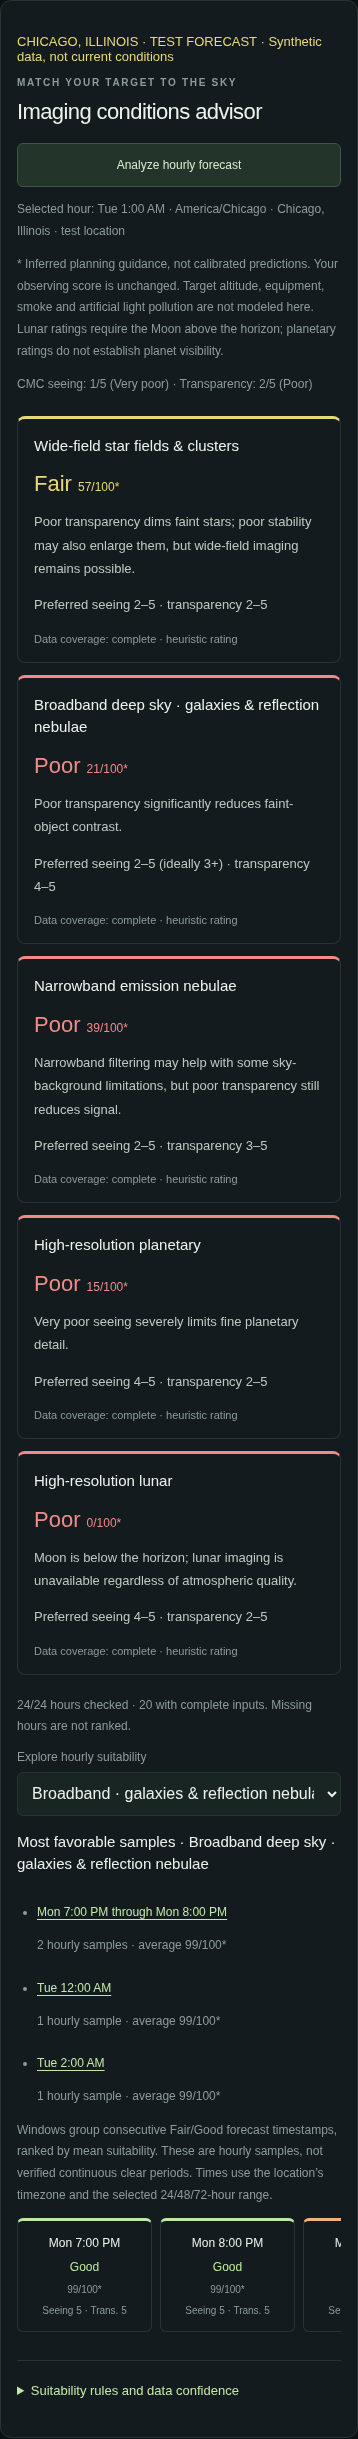
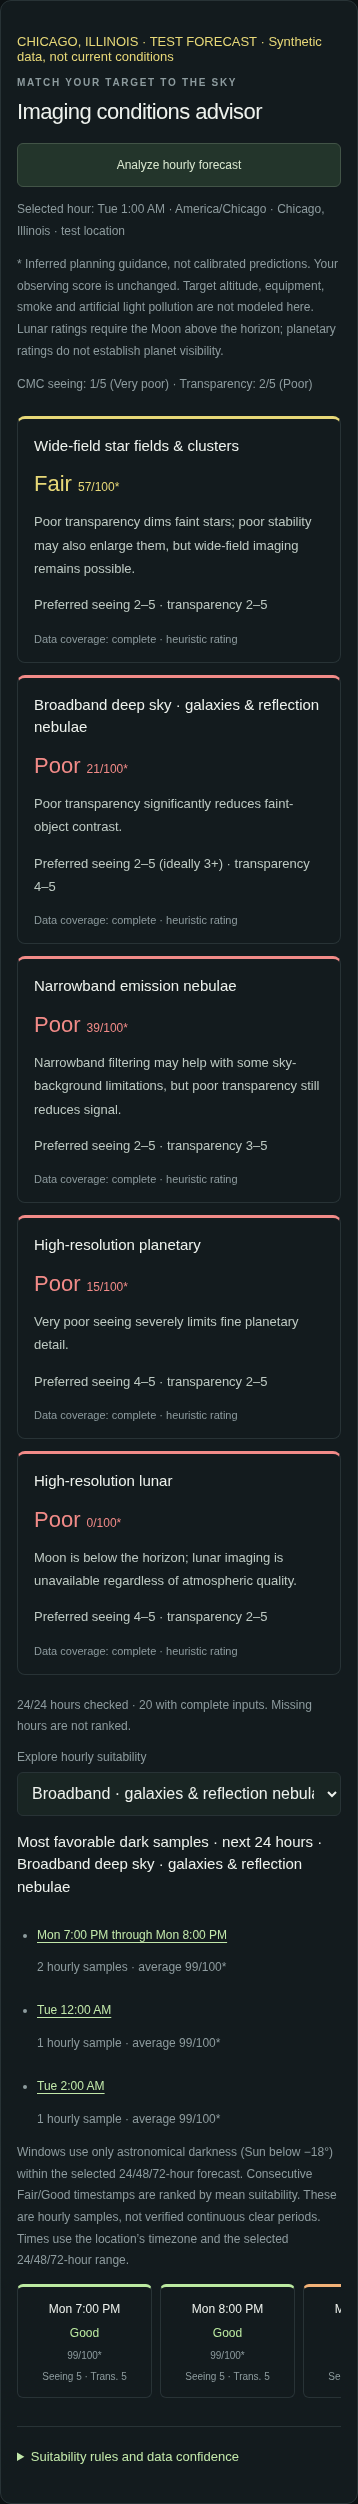
Restrict favorable imaging windows to dark hours in selected forecast range

diff --git a/dist/index.html b/dist/index.html
@@ -7,7 +7,7 @@
 <p id="imaging-progress" class="imaging-note" role="status">Hourly CMC analysis loads on request using the existing forecast provider.</p>
 <label class="imaging-category" for="imaging-category">Explore hourly suitability<select id="imaging-category"><option value="wide">Wide-field star fields &amp; clusters</option><option value="broadband">Broadband · galaxies &amp; reflection nebulae</option><option value="narrowband">Narrowband emission nebulae</option><option value="planetary">High-resolution planetary</option><option value="lunar">Lunar imaging</option></select></label>
 <h3 id="imaging-window-title">Most favorable hourly samples</h3><ul id="imaging-windows" class="imaging-windows"></ul>
-<p class="imaging-note">Windows group consecutive Fair/Good forecast timestamps, ranked by mean suitability. These are hourly samples, not verified continuous clear periods. Times use the location’s timezone and the selected 24/48/72-hour range.</p>
+<p class="imaging-note">Windows use only astronomical darkness (Sun below −18°) within the selected 24/48/72-hour forecast. Consecutive Fair/Good timestamps are ranked by mean suitability. These are hourly samples, not verified continuous clear periods. Times use the location’s timezone and the selected 24/48/72-hour range.</p>
 <div class="hour-scroll" tabindex="0" role="region" aria-label="Hourly imaging suitability, scroll horizontally"><div id="imaging-hours" class="imaging-hours"></div></div>
 <details class="imaging-method"><summary>Suitability rules and data confidence</summary><p>CMC indices: 0 = cloudy, 1 = very poor, 2 = poor, 3 = average/medium, 4 = good, 5 = excellent. Higher is better. Zero is not missing. Preferred ranges are soft preferences, not cutoffs. Every rating requires valid seeing, transparency, cloud cover, wind, humidity, air temperature, dew point, Sun altitude, Moon altitude and illumination. Missing or invalid inputs give null / Insufficient data; complete coverage does not imply forecast certainty.</p><p>Separate category-specific seeing and transparency curves form atmospheric suitability. Seeing/transparency weights: wide-field 25/75%, broadband and narrowband 20/80%, planetary and lunar 85/15%. Cloud, wind, dew-risk, twilight and moonlight modifiers can only reduce that result; there is no favorable baseline for poor indices. Seeing has the greatest influence on planetary and lunar detail; transparency has a stronger influence on broadband. Narrowband is more tolerant of moonlight, but not clouds or haze. Poor &lt;40, Marginal 40–54, Fair 55–69, Good ≥70. These are uncalibrated planning choices.</p><p><a href="https://github.com/flyby40/nightwatch/blob/63cc3840685d23dedfdff19a7da4e9501ca7ea7b/docs/imaging-advisor.md" target="_blank" rel="noopener">Full weighting tables, penalties and limitations ↗</a></p></details>
 </section><section class="panel cloud-map-panel" id="cloud-map-panel"><div class="section-heading"><div><div class="eyebrow">A LOOK ABOVE YOUR LOCATION</div><h2>Sky &amp; weather maps</h2></div><div class="map-actions"><button id="map-center" type="button">⌖ Recenter</button><button id="map-aurora-overview" type="button" hidden>Aurora overview</button><button id="map-refresh" type="button">↻ Refresh layer</button></div></div><p id="map-location" class="map-location">Map follows the selected forecast location.</p><div class="map-controls"><label>Map layer<select id="map-layer"><option value="satellite">Satellite · observed infrared</option><option value="forecast">CMC · forecast cloud cover</option><option value="wind">CMC · wind speed (mph)</option><option value="temperature">CMC · temperature (°F)</option><option value="precipitation">CMC · 1-hour precipitation (in)</option><option value="aurora">NOAA · short-term aurora forecast</option><option value="none">Location map only</option></select></label><label class="opacity-label">Overlay opacity <span id="map-opacity-value">65%</span><input type="range" id="map-opacity" min="15" max="100" step="5" value="65" aria-label="Cloud overlay opacity"></label></div><div class="cloud-map-wrap"><div id="cloud-map" role="region" aria-label="Interactive map of the selected location and cloud imagery"></div><div id="map-legend" hidden><span id="map-legend-title">CMC cloud cover (%)</span><div id="map-unit-legend" class="map-unit-legend" hidden><canvas id="map-unit-colorbar" width="24" height="220" role="img" aria-label="Provider map color gradient"></canvas><div id="map-unit-ticks"></div></div><img id="map-legend-image" alt="CMC total cloud cover percentage legend" loading="lazy"></div></div><div id="aurora-legend" class="aurora-legend" hidden><span>NOAA aurora model value · 0–100</span><div><i></i><span>Low</span><i></i><span>25</span><i></i><span>50</span><i></i><span>75–100</span></div><a href="https://www.swpc.noaa.gov/products/aurora-30-minute-forecast" target="_blank" rel="noopener">NOAA polar maps &amp; guidance ↗</a></div><div class="map-time" id="map-time">Waiting for the forecast location…</div><div id="satellite-controls" class="satellite-controls"><button type="button" id="map-play" aria-pressed="false" disabled>▶ Animate recent images</button><label>Recent frames<input type="range" id="map-frame" min="0" max="5" value="5" step="1" aria-label="Recent satellite image frame" disabled></label></div><p id="map-status" class="map-status" role="status">The map loads when it comes into view. Satellite imagery has a processing delay; forecast clouds follow the selected chart hour.</p><p id="map-basemap-status" class="map-status" role="status"></p><p class="map-help">Select a chart hour above to change CMC cloud, wind, temperature, or 1-hour precipitation forecasts. Wind and temperature map legends and the distance scale follow the unit selector. Satellite imagery and NOAA’s short-term aurora forecast show their own timestamps independently of the chart hour. Aurora visibility also needs darkness and favorable cloud conditions; the model value is not your personal chance of seeing it. Use the + / − controls or pinch to zoom. The forecast stays pinned to the marker when you browse the map.</p></section><section class="panel light-panel"><div class="section-heading"><div><div class="eyebrow">YOUR OBSERVING LOCATION</div><h2>Light pollution &amp; sky darkness</h2></div><a id="pollution-map" target="_blank" rel="noopener">View this location on the light-pollution map ↗</a></div><p id="pollution-location"></p><div class="sky-readings"><div><span>BORTLE CLASS</span><strong id="bortle">null</strong><small id="bortle-source">No local value supplied</small></div><div><span>SKY BRIGHTNESS · mag/arcsec²</span><strong id="sqm">null</strong><small id="sqm-source">No local value supplied</small></div></div><div class="bortle-scale" aria-label="Bortle classes: 1 is darkest, 9 is brightest"><span data-bortle="1">1</span><span data-bortle="2">2</span><span data-bortle="3">3</span><span data-bortle="4">4</span><span data-bortle="5">5</span><span data-bortle="6">6</span><span data-bortle="7">7</span><span data-bortle="8">8</span><span data-bortle="9">9</span></div><div class="scale-caption"><span>Darker sky</span><span>Brighter sky</span></div><p class="light-note">Automatic values, when connected, come from <a href="https://darkskysites.com" target="_blank" rel="noopener">DarkSkySites.com</a>: modeled zenith sky brightness and a provider-derived Bortle class, not live measurements. Unavailable or unscreened values remain null. Known local readings override the corresponding provider value; this app does not convert between Bortle and SQM.</p><p id="pollution-status" role="status">Checking automatic lookup…</p><details><summary>Add known readings for this location</summary><form id="sky-readings-form"><label>Bortle class (1–9)<input id="bortle-input" type="number" min="1" max="9" step="1" placeholder="Unknown"></label><label>Sky brightness (mag/arcsec²)<input id="sqm-input" type="number" min="0" max="30" step="0.01" placeholder="Unknown"></label><button type="submit">Save local readings</button><button type="button" id="clear-readings">Clear</button></form><small>Optional user-supplied readings, saved in this browser for these coordinates. Leave unknown fields blank. Enter measured SQM or a source’s modeled brightness as supplied; no value is calculated from the other.</small><p id="readings-status" role="status"></p></details></section><section class="panel dew-panel"><div class="eyebrow">EQUIPMENT CHECK · SELECTED HOUR</div><h2 id="dew-title">Dew-heater recommendation: null</h2><p id="dew-advice">Waiting for humidity and dew-point data.</p><small>Guidance uses forecast air temperature, dew point, and humidity. Optics can cool below air temperature; inspect your equipment during the session.</small></section><section class="panel highlights"><div class="eyebrow">WHAT TO LOOK FOR</div><h2>Plan your dark-hour observing</h2><p id="highlight-context">Choose a dark hour in the forecast, then use these astronomy guides to find observing highlights.</p><a id="sky-link" target="_blank" rel="noopener">Interactive sky chart for this location ↗</a><a href="https://skyandtelescope.org/observing/sky-at-a-glance/" target="_blank" rel="noopener">This week’s sky at a glance ↗</a><a href="https://www.imo.net/calendar/" target="_blank" rel="noopener">Meteor shower calendars ↗</a><small>External guides; event visibility is not supplied by this forecast. Confirm dates, local horizon, and darkness in the linked guide.</small></section><section class="bottom-grid"><article class="panel events"><div class="eyebrow">FOLLOW THE LIGHT</div><h2><span id="milestone-title">Astronomy milestones · 24 hours</span></h2><div id="events"></div></article><article class="panel field"><span class="field-icon">✺</span><div class="eyebrow">A NOTE FROM THE FIELD</div><h2>Give your eyes<br>a little time.</h2><p>Spend 20–30 minutes away from bright light. You’ll start to see a sky you didn’t know was there.</p><button id="method">How is the forecast calculated? ↗</button></article></section><footer><span class="brand">✳ nightwatch.</span><p>Made for the moments between sunset and sunrise.</p><span>Weather: <a href="https://open-meteo.com/" target="_blank" rel="noopener">Open-Meteo</a> · Astronomy: SunCalc · <a href="https://weather.gc.ca/astro/index_e.html" target="_blank" rel="noopener">Seeing/transparency: ECCC/CMC</a></span></footer></main><dialog id="info"><button id="close" aria-label="Close">×</button><h2>Forecast data and missing values</h2><p>Weather forecasts come from Open-Meteo: cloud cover, relative humidity, temperature, dew point, wind speed, and precipitation probability. Forecasts are model outputs, not measurements at your telescope.</p><p>Seeing and transparency are provider-issued CMC/ECCC RDPS indices from MSC GeoMet, loaded for the selected location and exact UTC forecast hour. They are not arcseconds or measurements at your telescope. The model grid is about 10 km and covers North America. Provider condition labels, valid time, and model run are displayed. No temporal interpolation, extrapolation, or derived conversion is used. Missing or invalid values remain null. The viewing score is inferred by Nightwatch, not supplied by CMC or Open-Meteo. For each hour, cloud component = 100 − cloud%; humidity component = 100 − max(0, RH% − 40) × 1.4; wind component = max(0, 100 − 3 × wind in km/h); moon component = 100 − illuminated percent when the Moon is above the horizon, otherwise 100. These receive weights 60%, 15%, 10%, and 15%. The total is clamped to 0–100, multiplied by 1 below −18° Sun altitude, 0.65 from −18° to below −12°, or 0.25 during the remaining twilight, then rounded. Daylight is zero. Any missing required input returns null. Viewing colors use green for “Good” ≥70, yellow for “Fair” 55–69, orange for “Marginal” 40–54, and red for “Poor” below 40. Unavailable scores stay gray. These thresholds are uncalibrated planning choices. CMC seeing and transparency and light pollution do not enter this formula. Location-specific Bortle and sky-brightness values can be supplied by DarkSkySites through a server-side proxy. These are provider model outputs and a provider-derived Bortle class, not measurements. Dataset date, fallback and quality are shown. Values with unscreened quality, including unverified-zero data, remain null. Any known local readings you saved override the corresponding provider value and are labeled user supplied. This app does not convert between SQM and Bortle. If the backend is not configured or data is unavailable, automatic values stay null. Missing weather values also remain null, with no interpolation or substitution.</p><p>Sun and Moon geometry and illumination are calculated with SunCalc. Darkness means the Sun is below −18°. Twilight crossings are calculated to one-minute resolution, not supplied as measured data.</p><p>Dew guidance is a rule, not a dew prediction: use a heater when relative humidity is at least 85% or the air/dew-point spread is at most 3°C (5.4°F). Otherwise a heater is not indicated by those thresholds; keep it available. Missing any required input makes the recommendation null. No optical surface temperature is available.</p><p>The maps use OpenStreetMap for geography and ECCC GeoMet for GOES infrared satellite imagery and CMC RDPS total cloud cover, 10m wind speed, and 2m air temperature. Wind and temperature map legend labels convert the provider’s native values to the selected unit system while preserving its color gradient and forecast values. The map distance scale follows that unit choice. Imperial is the default unless a metric preference was saved. Dew/frost badges are disclosed inferred equipment-risk indicators: humidity ≥85% or temperature/dew-point spread ≤3°C (5.4°F), with frost possible at air temperatures ≤3°C (37.4°F) and dew possible otherwise. This is a conservative screen, not a provider-issued condensation forecast or a surface-temperature measurement. No badge is rendered when the screen is negative or a required input is missing; absent badges do not establish safe or dry optics. NOAA SWPC supplies the short-term OVATION aurora grid with its observation and forecast times; it is not extended to the chart’s 24/48/72-hour horizon. Nightwatch shows the supplied 0–100 aurora values, not a personal visibility probability. Local values are taken from the nearest 1° NOAA grid cell without interpolating missing values. Satellite timestamps come from provider metadata and are not real-time measurements at the marker. CMC images use the selected exact forecast hour and pinned model run without time interpolation. Imagery may be blank outside coverage; a blank image does not establish clear conditions. The recent-image animation uses six provider timestamps, not generated intermediate frames. The 24/48/72-hour tabs start now. Each row represents the upcoming hourly forecast timestamp, displayed in the location’s time zone. Links to observing guides do not imply a verified event or visibility forecast.</p></dialog><script src="suncalc.js"></script><script src="cmc.js"></script><script src="weather-utils.js"></script><script src="viewing-score.js"></script><script src="light-pollution.js"></script><script src="vendor/leaflet/leaflet.js"></script><script src="aurora-map.js"></script><script src="cloud-map.js"></script><script src="imaging-advisor.js"></script><script src="imaging-ui.js"></script><script src="app.js"></script></body></html>

diff --git a/dist/imaging-ui.js b/dist/imaging-ui.js
@@ -16,8 +16,8 @@ function render(state,horizon,selected,format,onSelect){
  $('imaging-progress').textContent=(state.imagingRunning?'Analyzing CMC hourly forecasts… ':'')+done+'/'+horizon+' hours checked · '+complete+' with complete inputs. Missing hours are not ranked.';
  $('imaging-analyze').disabled=!!state.imagingRunning;$('imaging-cancel').hidden=!state.imagingRunning;
  const groups=NightwatchImaging.windows(hours,category);
- $('imaging-window-title').textContent='Most favorable samples · '+NightwatchImaging.config.categories[category].label;
- $('imaging-windows').innerHTML=groups.length?groups.map(g=>'<li><button data-imaging-hour="'+g.indices[0]+'">'+escape(format(new Date(g.start)))+(g.end!==g.start?' through '+escape(format(new Date(g.end))):'')+'</button><span>'+g.scores.length+' hourly sample'+(g.scores.length===1?'':'s')+' · average '+g.average+'/100*</span></li>').join(''):'<li>No Fair or Good samples with complete data yet. Analyze the forecast, or try another category or time range.</li>';
+ $('imaging-window-title').textContent='Most favorable dark samples · next '+horizon+' hours · '+NightwatchImaging.config.categories[category].label;
+ $('imaging-windows').innerHTML=groups.length?groups.map(g=>'<li><button data-imaging-hour="'+g.indices[0]+'">'+escape(format(new Date(g.start)))+(g.end!==g.start?' through '+escape(format(new Date(g.end))):'')+'</button><span>'+g.scores.length+' hourly sample'+(g.scores.length===1?'':'s')+' · average '+g.average+'/100*</span></li>').join(''):'<li>No Fair or Good astronomical-dark samples with complete data in the selected '+horizon+'-hour forecast. Analyze the forecast, or try another category or time range.</li>';
  $('imaging-hours').innerHTML=hours.map((h,i)=>{const r=NightwatchImaging.analyze(h).find(r=>r.id===category);return '<button class="imaging-sample imaging-'+r.band+(i===selected?' selected':'')+'" data-imaging-hour="'+i+'" aria-pressed="'+(i===selected)+'"><span>'+escape(format(h.date))+'</span><strong>'+r.rating+'</strong><small>'+(r.score===null?'null · missing inputs':r.score+'/100*')+'</small><small>Seeing '+(h.seeing??'null')+' · Trans. '+(h.transparency??'null')+'</small></button>'}).join('');
 }
 $('imaging-category').onchange=e=>{category=e.target.value;if(context){const {state,horizon,selected,format,onSelect}=context;render(state,horizon,selected,format,onSelect)}};

diff --git a/dist/imaging-advisor.js b/dist/imaging-advisor.js
@@ -72,7 +72,7 @@ function analyze(h={},c=config){
 // Windows contain consecutive forecast samples, not guaranteed continuous conditions.
 function windows(hours,id,c=config){
  const groups=[];let group=null;
- for(const h of hours){const r=analyze(h,c).find(r=>r.id===id),t=+h.date;if(!valid(t)||r.score===null||r.score<c.bands.fair){group=null;continue;}
+ for(const h of hours){const r=analyze(h,c).find(r=>r.id===id),t=+h.date;if(!valid(t)||!valid(h.sun)||h.sun>=-18||r.score===null||r.score<c.bands.fair){group=null;continue;}
   if(!group||t-group.end!==3600000){group={start:t,end:t,scores:[],indices:[]};groups.push(group)}
   group.end=t;group.scores.push(r.score);group.indices.push(h.index);
  }

diff --git a/docs/imaging-advisor.md b/docs/imaging-advisor.md
@@ -96,7 +96,7 @@ The wording describes stars for wide-field, faint-object contrast for broadband,
 
 The selected hour uses existing lazy CMC requests. “Analyze hourly forecast” explicitly loads the selected 24/48/72 timestamps, two provider fields per hour, through the existing two-request concurrency limiter and exact-time/run cache. It does not request new weather sources or modify the observing score. Progress distinguishes hours checked from hours with complete inputs. Analysis can be stopped; changing location or horizon stops scheduling further hours. An in-flight request may finish and populate only its original hour/location. Selected-hour and analysis requests share a per-hour promise. Provider failures remain null.
 
-The category selector updates an hourly strip and up to three best windows. A window groups **consecutive hourly timestamps** with complete data and a Fair/Good rating (≥55), never bridging missing or adverse hours. Rank by mean score, then sample count, then earliest timestamp. Start/end are the first/last **sample timestamps**, not guaranteed continuous observing intervals. A single timestamp is a single sample. Clicking a window/sample selects the corresponding original forecast hour; selecting a daylight sample exits the dark-only filter. Results use the forecast location's timezone. Availability and horizon gaps are visible, not extrapolated. Partially analyzed ranges may change their ranking as additional hours load.
+The category selector updates an hourly strip and up to three best windows. A window groups **consecutive hourly timestamps in astronomical darkness (Sun altitude strictly below −18°)** with complete data and a Fair/Good rating (≥55), never bridging daylight, twilight, missing or adverse hours. This dark-only restriction applies to all five categories, including planetary and lunar, without changing their suitability scores. Candidates are sliced to the selected 24/48/72-hour forecast before grouping/ranking; the heading displays that range. Rank by mean score, then sample count, then earliest timestamp. Start/end are the first/last **sample timestamps**, not guaranteed continuous observing intervals. A single timestamp is a single sample. Clicking a window/sample selects the corresponding original forecast hour; selecting a daylight sample exits the dark-only filter. Results use the forecast location's timezone. Availability and horizon gaps are visible, not extrapolated. Partially analyzed ranges may change their ranking as additional hours load.
 
 ## Validation and screenshots
 
